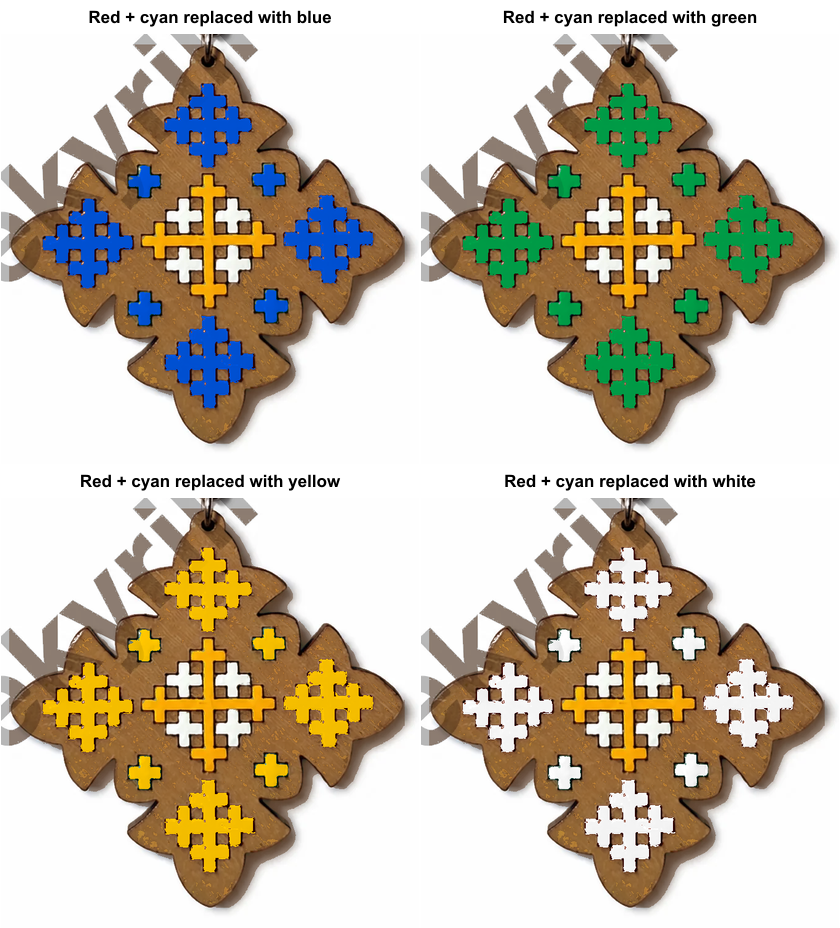
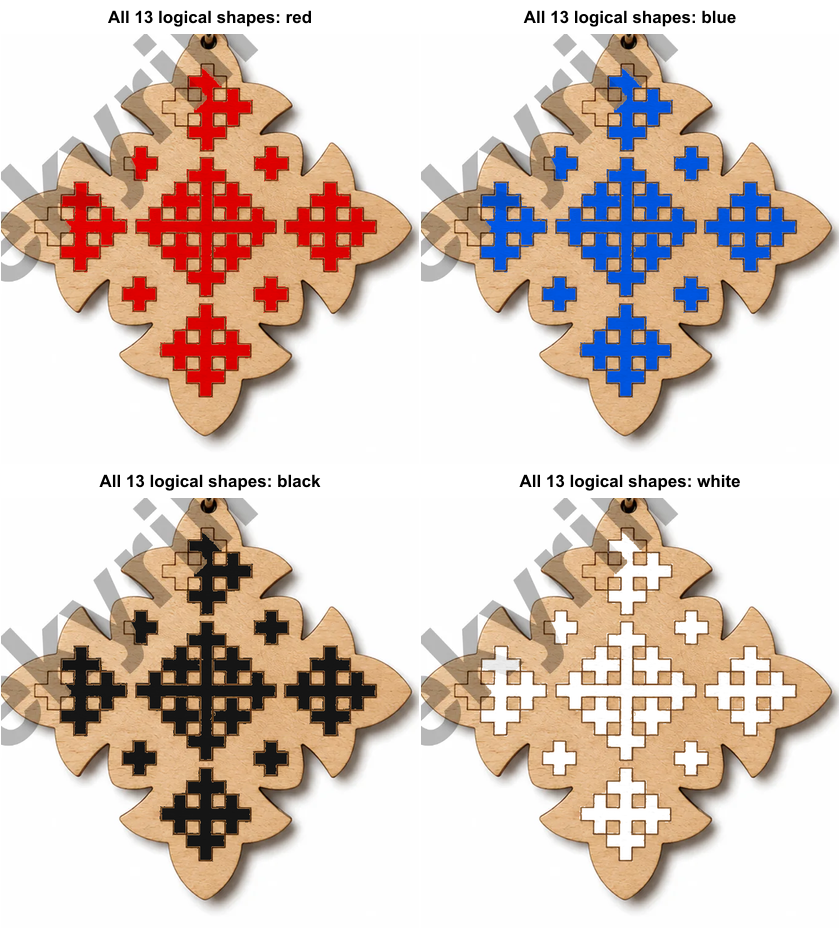
Fix continuous coloring for Yota Model 3

diff --git a/product-page.js b/product-page.js
@@ -720,9 +720,15 @@ function initializeColoringGame(panel) {
         const x = pixel % canvas.width;
         const y = Math.floor(pixel / canvas.width);
         const localIndex = ((y - bounds.y) * bounds.width + (x - bounds.x)) * 4;
-        const sourceLuminance = 0.2126 * basePixels[sourceIndex] + 0.7152 * basePixels[sourceIndex + 1] + 0.0722 * basePixels[sourceIndex + 2];
+        const sourceRed = basePixels[sourceIndex];
+        const sourceGreen = basePixels[sourceIndex + 1];
+        const sourceBlue = basePixels[sourceIndex + 2];
+        const sourceLuminance = 0.2126 * sourceRed + 0.7152 * sourceGreen + 0.0722 * sourceBlue;
+        const neutralWatermarkPixel = regionData.ignoreNeutralWatermark === true &&
+          Math.abs(sourceRed - sourceGreen) < 18 && Math.abs(sourceGreen - sourceBlue) < 18;
+        const effectiveSourceLuminance = neutralWatermarkPixel ? regionAverageLuminance.get(regionId) : sourceLuminance;
         const textureFactor = replaceSourceColor
-          ? Math.max(0.82, Math.min(1.18, 1 + (sourceLuminance - regionAverageLuminance.get(regionId)) / 420))
+          ? Math.max(0.82, Math.min(1.18, 1 + (effectiveSourceLuminance - regionAverageLuminance.get(regionId)) / 420))
           : 1;
         let outputRed = replaceSourceColor ? red * textureFactor : basePixels[sourceIndex] * (1 - paintOpacity) + red * paintOpacity;
         let outputGreen = replaceSourceColor ? green * textureFactor : basePixels[sourceIndex + 1] * (1 - paintOpacity) + green * paintOpacity;
@@ -741,7 +747,7 @@ function initializeColoringGame(panel) {
           const highlightSampleY = Math.max(1, Math.round(Math.abs(highlightOffsetY) / effectScale));
           const shadowSampleX = Math.max(1, Math.round(shadowOffsetX / effectScale));
           const shadowSampleY = Math.max(1, Math.round(shadowOffsetY / effectScale));
-          const woodLuminance = (basePixels[sourceIndex] + basePixels[sourceIndex + 1] + basePixels[sourceIndex + 2]) / 3;
+          const woodLuminance = effectiveSourceLuminance;
           const softLightTexture = ((woodLuminance - 128) / 128) * 0.045;
           outputRed += (softLightTexture >= 0 ? 255 - outputRed : outputRed) * softLightTexture;
           outputGreen += (softLightTexture >= 0 ? 255 - outputGreen : outputGreen) * softLightTexture;

diff --git a/coloringDesigns.js b/coloringDesigns.js
@@ -36,7 +36,7 @@ export const COLORING_DESIGNS = Object.freeze([
     regionOverridesPath: "/coloring/yota-03/region-overrides.json",
     enabled: true,
     status: "ready",
-    modelVersion: "yota-03-v5"
+    modelVersion: "yota-03-v6"
   }),
   Object.freeze({
     id: "yota-04",
